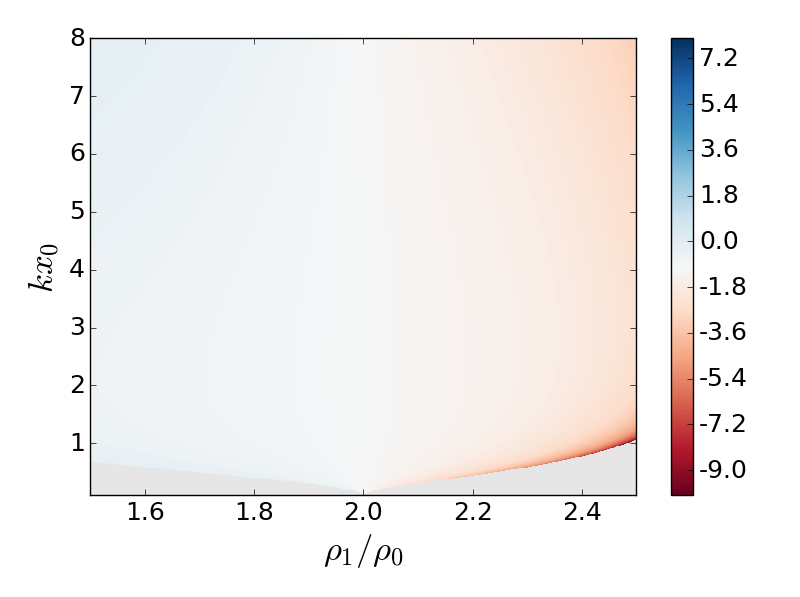
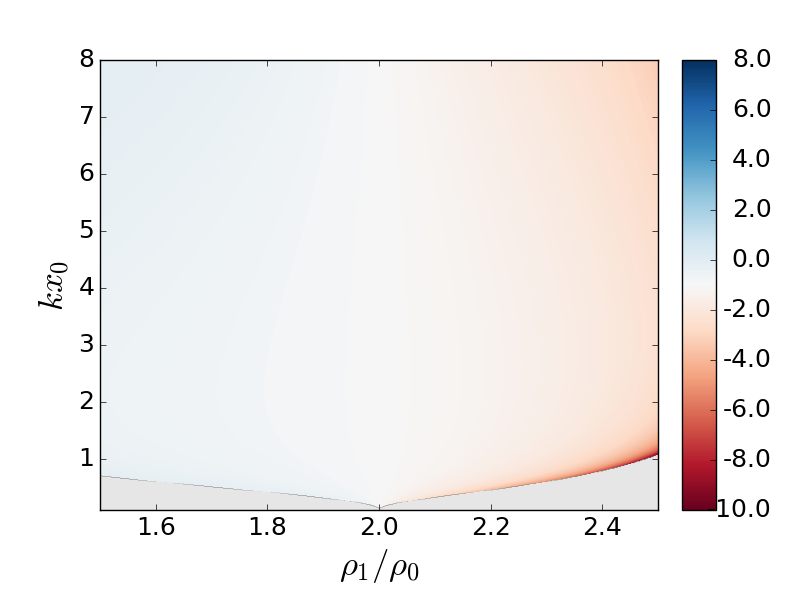
All aspect ratios and colorbar working

Changed region(s): [[0.0312, 0.0603, 0.9688, 0.9648]]

diff --git a/sms.py b/sms.py
@@ -35,10 +35,10 @@ for mode in mode_options:
     if 'saus' in mode:
         saus_mode_options.append(mode)
 
-mode = mode_options[0]
+mode = mode_options[1]
 
 #plot_variable = 'amp-ratio'
-plot_variable = 'min-pert-shift'
+#plot_variable = 'min-pert-shift'
 #plot_variable = 'W'
 
 print('Plotting ' + plot_variable + ' for ' + mode + ' mode')
@@ -135,9 +135,9 @@ R1max1 = 4.
 #initial and final K and R1 values
 if mode == 'slow-kink-surf':
     Kmin = 0.01
-    R1min = 0.001
+    R1min = 0.5 #0.001
     Kmax = 3.
-    R1max = 4.
+    R1max = 3.5 #4.
 if mode == 'slow-saus-surf':
     Kmin = 0.01
     R1min = 0.5
@@ -229,23 +229,16 @@ def clim(data,plot_variable):
     elif plot_variable == 'W':
         return [np.nanmin(data), np.nanmax(data)]
 
+if plot_variable == 'amp-ratio' or plot_variable == 'W':
+    cmap = 'RdBu'
+else:
+    cmap = 'RdBu'
 
 fig = plt.figure()
-aspect = 1#(R1vals[-1] - R1vals[0])/(Kvals[-1] - Kvals[0])# * 0.5
-im = plt.imshow(data_set.transpose(), cmap='RdBu', origin='lower', clim=clim(data_set,plot_variable), 
+aspect = 'auto'#(R1vals[-1] - R1vals[0])/(Kvals[-1] - Kvals[0])# * 0.5
+im = plt.imshow(data_set.transpose(), cmap=cmap, origin='lower', clim=clim(data_set,plot_variable), 
                 aspect=aspect, extent=[R1vals[0],R1vals[-1],Kvals[0],Kvals[-1]])
-
-def fmt(x, pos):
-    a = '{:.1f}'.format(x)
-    return a
-#cbar.ax.set_yticklabels(['{:.0f}'.format(x) for x in np.arange(cbar_min, cbar_max+cbar_step, cbar_step)])
-cb = plt.colorbar(im, fraction=0.046*aspect, pad=0.04, 
-                  format=matplotlib.ticker.FuncFormatter(fmt))
-
-#try this bad boyyy 19/7/17::
-#cax = divider.append_axes("right", size="5%", pad=0.05, aspect=10)
-##cax = fig.add_axes([0.85, 0.3, 0.04, 0.4])
-#plt.colorbar(im, cax=cax)
+ax = plt.gca()
 
 
 plt.xlabel(r'$\rho_1/\rho_0$', fontsize=25)
@@ -260,7 +253,6 @@ width = R1max - R1min
 height = Kmax - Kmin
 
 # set background colour - NaNs have this colour
-ax = plt.gca()
 rect = ax.patch
 rect.set_facecolor((0.9,0.9,0.9))
 
@@ -273,14 +265,25 @@ def pad(data):
     else:
         p = mpad
     return p
+
+divider = make_axes_locatable(ax)
+cax = divider.append_axes("right", size="7.5%", pad=0.2, aspect=13.33)
+
+def fmt(x, pos):
+    a = '{:.1f}'.format(x)
+    return a
+#cbar.ax.set_yticklabels(['{:.0f}'.format(x) for x in np.arange(cbar_min, cbar_max+cbar_step, cbar_step)])
+cb = plt.colorbar(im, cax=cax, 
+                  format=matplotlib.ticker.FuncFormatter(fmt))
         
 ticklabs = cb.ax.get_yticklabels()
 cb.ax.set_yticklabels(ticklabs,ha='right')
 cb.ax.yaxis.set_tick_params(pad=pad(data_set))  # your number may vary
 
+plt.gcf().subplots_adjust(bottom=0.15)
 #plt.tight_layout()
 plt.show()
-#
+
 filename = mode + '_' + plot_variable
 plt.savefig('D:\\my_work\\projects\\Asymmetric_slab\\Python\\sms\\sms-plots\\' 
             + filename)
